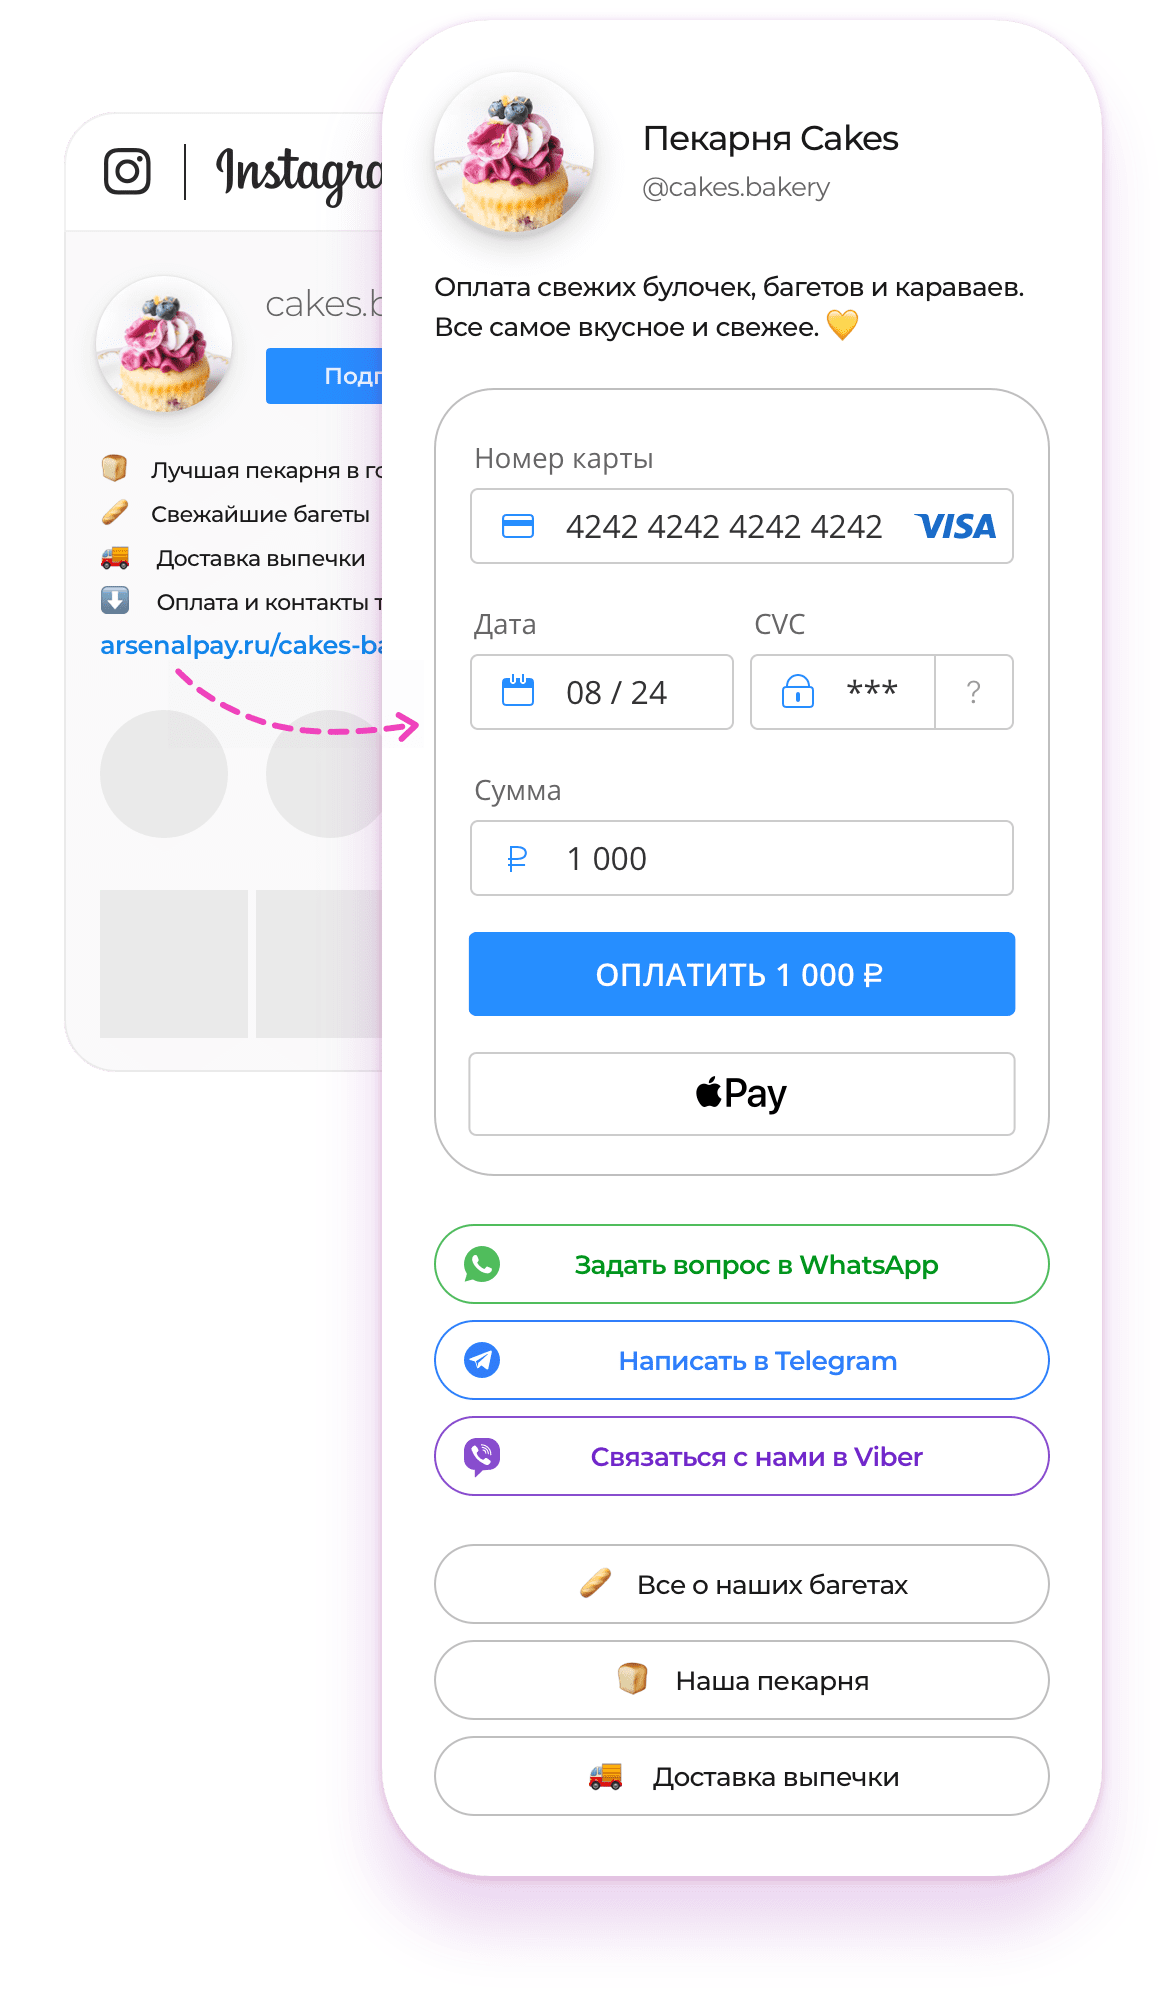
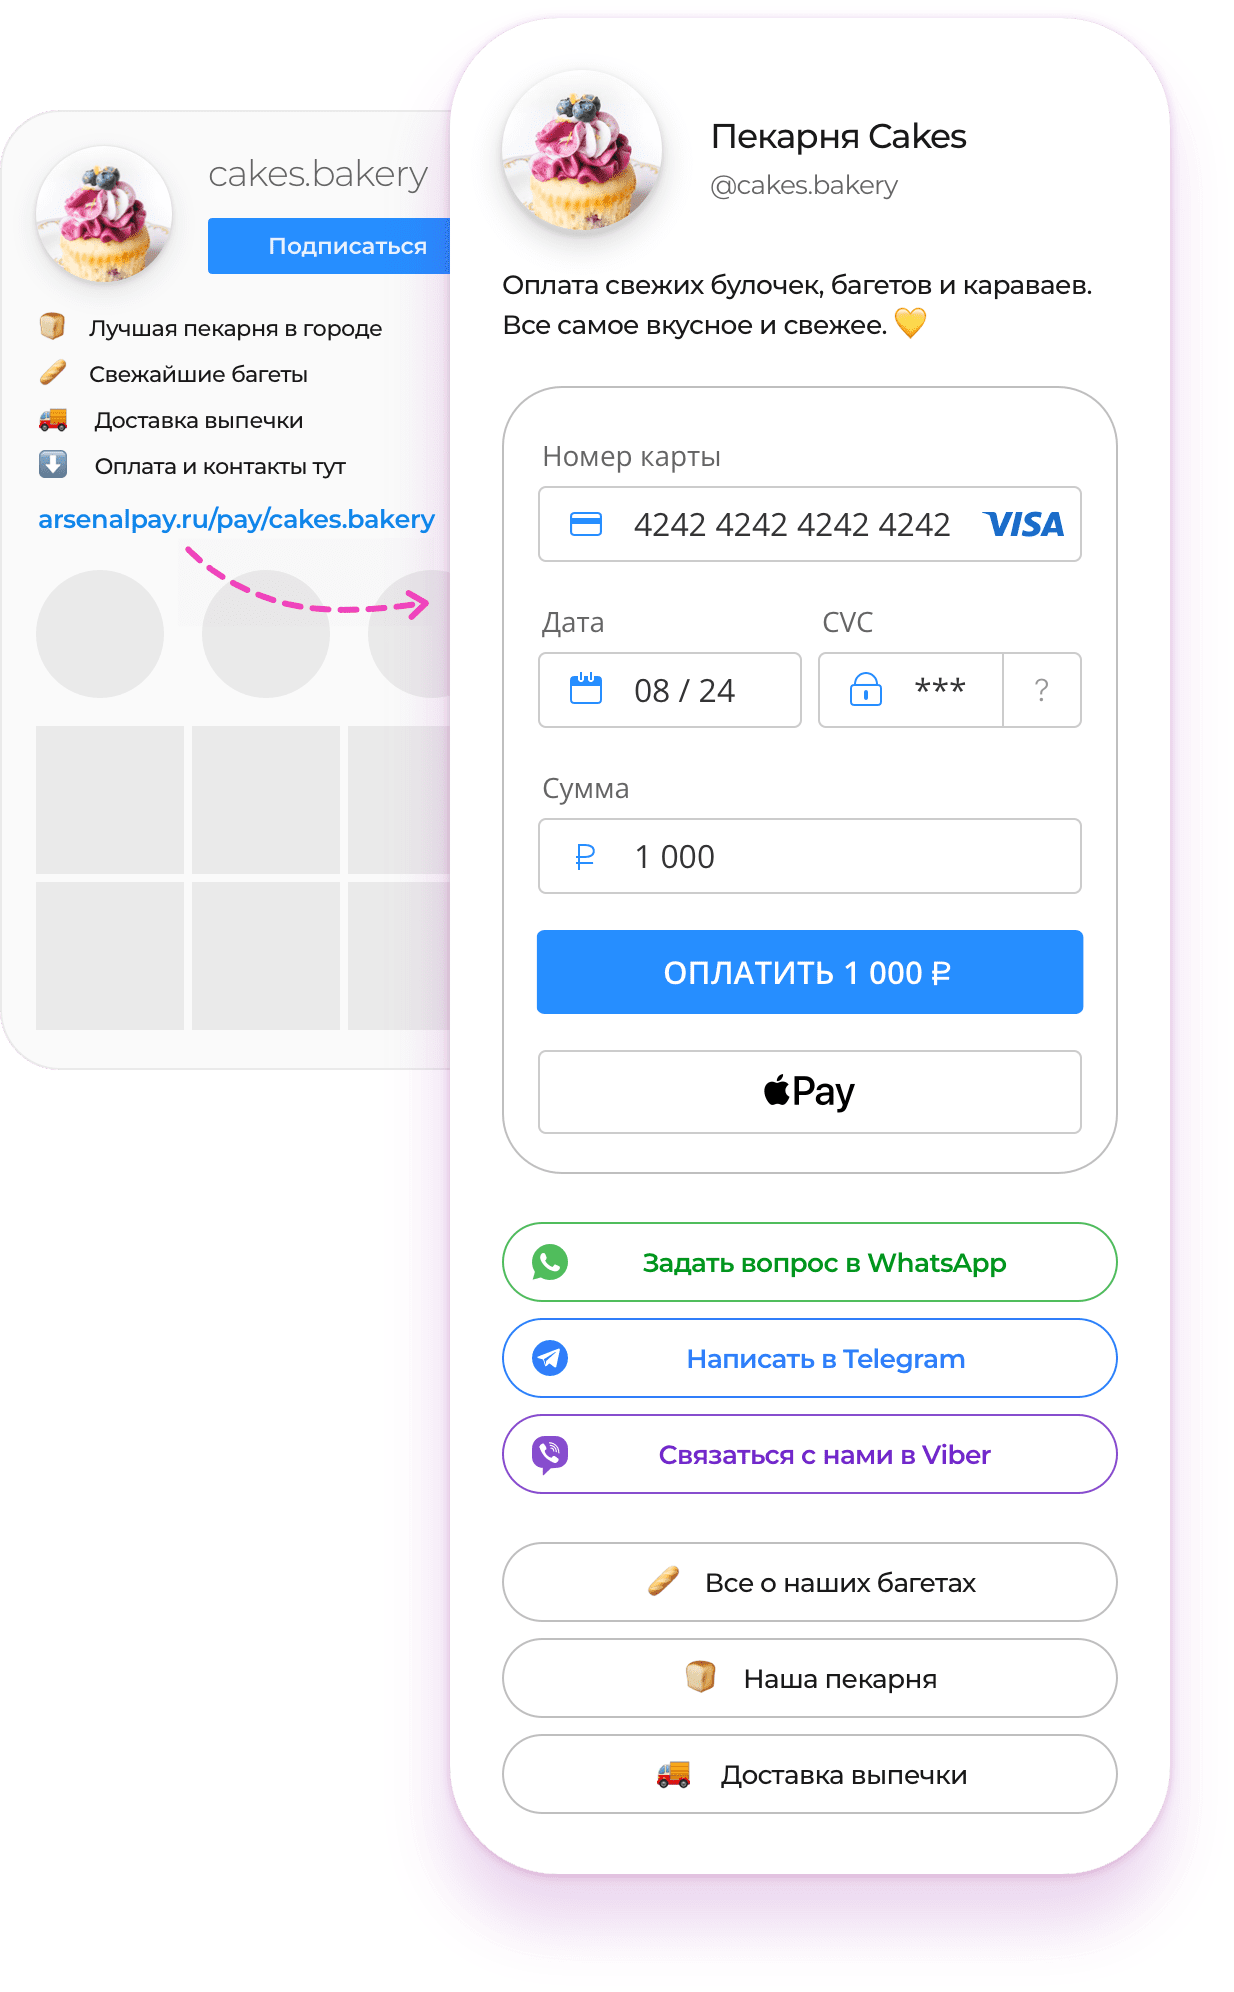
instagram img changed

diff --git a/src/assets/scss/components/_widget-box.scss b/src/assets/scss/components/_widget-box.scss
@@ -1,6 +1,6 @@
 .widget-box {
-  --widget-instagram-height--xs: 1234px;
-  --widget-instagram-height--sm: 996px;
+  --widget-instagram-height--xs: 1170px;
+  --widget-instagram-height--sm: 1216px;
   --widget-instagram-width--sm: 583px;
 
   display: flex;
@@ -125,23 +125,24 @@
   }
 
   &--instagram {
-    --shift-left: -76px;
+    --shift-left: -42px;
 
     position: relative;
-    margin-top: 2px;
+    //margin-top: 2px;
 
     @include media-breakpoint-up(sm) {
-      margin-top: -32px;
+      margin-top: -87px;
     }
 
     @include media-breakpoint-up(md) {
-      margin-top: -20px;
+      margin-top: -107px;
     }
 
     @include media-breakpoint-up(lg) {
-      left: -27px;
-      grid-template-columns: 524px minmax(340px, 400px);
-      grid-column-gap: 8px;
+      margin-top: -18px;
+      left: -7px;
+      grid-template-columns: 386px minmax(340px, 400px);
+      grid-column-gap: 28px;
       width: auto;
     }
 
@@ -150,13 +151,13 @@
       left: var(--shift-left);
       width: calc(100% - var(--shift-left));
       grid-template-columns: var(--widget-instagram-width--sm) auto;
-      grid-column-gap: 52px;
+      grid-column-gap: 105px;
     }
 
     @include media-breakpoint-up(xxl) {
-      --shift-left: -104px;
+      --shift-left: -134px;
       width: calc(100% + 60px);
-      grid-column-gap: 92px;
+      grid-column-gap: 136px;
     }
   }
 
@@ -288,7 +289,7 @@
       position: absolute;
       margin-bottom: 60px;
       //max-width: 384px;
-      width: 384px;
+      width: 360px;
       height: var(--widget-instagram-height--xs);
       align-self: center;
       background-color: transparent;
@@ -296,21 +297,19 @@
 
       @include media-breakpoint-up(sm) {
         margin-bottom: 97px;
-        width: var(--widget-instagram-width--sm);
-        height: var(--widget-instagram-height--sm);
+        width: 388px;
       }
 
       @include media-breakpoint-up(lg) {
         position: absolute;
         top: 0;
         left: 0;
-        width: 524px;
         height: 934px;
       }
 
       @include media-breakpoint-up(xl) {
-        width: var(--widget-instagram-width--sm);
-        height: var(--widget-instagram-height--sm);
+        width: 618px;
+        height: 996px;
       }
 
       picture {
@@ -460,7 +459,7 @@
       }
 
       @include media-breakpoint-up(lg) {
-        margin-top: 40px;
+        margin-top: 37px;
         grid-column: 2 / 3;
       }
 
@@ -470,10 +469,10 @@
     }
 
     .widget-box--instagram .widget-box__widget + & {
-      padding-top: var(--widget-instagram-height--xs);
+      padding-top: 1172px;
 
       @include media-breakpoint-up(sm) {
-        padding-top: var(--widget-instagram-height--sm);
+        padding-top: 1219px;
       }
 
       @include media-breakpoint-up(lg) {
@@ -625,7 +624,7 @@
 }
 
 picture.img.widget-box--instagram-img {
-  height: 1234px;
+  height: 1170px;
 
   @include media-breakpoint-up(sm) {
     height: 996px;
@@ -641,7 +640,7 @@ picture.img.widget-box--no-site-img {
 }
 
 picture.img.widget-box--instagram-img {
-  height: 1234px;
+  height: 1170px;
 
   @include media-breakpoint-up(sm) {
     height: 996px;

diff --git a/src/pages/priem-platezhej-v-instagram.html b/src/pages/priem-platezhej-v-instagram.html
@@ -42,7 +42,7 @@ footerLink: "https://arsenalpay.ru/dashboard/quickstart?step=1"
     <a href="https://arsenalpay.ru/dashboard/quickstart?step=1" class="page-section__btn">Подключить</a>
     <div class="widget-box widget-box--instagram">
       <div class="widget-box__widget">
-        {{{ img className="widget-box--instagram-img" name="widget-instagram" breakpoints='{"sm": true, "lg": true, "xl": true}'}}}
+        {{{ img className="widget-box--instagram-img" name="widget-instagram" breakpoints='{"xs": "true", "sm": true, "xl": true}'}}}
       </div>
       <div class="widget-box__content">
         {{{ info-box
@@ -78,21 +78,21 @@ footerLink: "https://arsenalpay.ru/dashboard/quickstart?step=1"
           label="Бесплатно"
           mods="align-left-lg, mgb-42"
           titleMods="lh-35-md"
-          textMods="lh-md-26, mw-520, mw-md-400" }}}
+          textMods="lh-md-26, mw-520, w-md-400" }}}
         {{{ info-box
           title="Мультиссылка"
           text='Соберите все важные ссылки вместе. <br class="br--show-sm">Решает проблему единственной ссылки в&nbsp;профиле Instagram*.'
           label="Бесплатно"
           mods="align-left-lg, mgb-42"
           titleMods="lh-35-md"
-          textMods="lh-md-26, mw-520, mw-md-400" }}}
+          textMods="lh-md-26, mw-520, w-md-400" }}}
         {{{ info-box
           title="Автоматическая email рассылка"
           text='Открывает доступ к&nbsp;контенту после оплаты. <br class="br br--show-sm br--hide-lg">Автоматизирует работу с&nbsp;клиентами.'
           label="Бесплатно"
           mods="align-left-lg, mgb-42"
           titleMods="lh-35-md"
-          textMods="lh-md-26, mw-520, mw-md-400" }}}
+          textMods="lh-md-26, mw-520, w-md-400" }}}
       </div>
     </div>
   </div>

diff --git a/src/assets/scss/components/_page-section.scss b/src/assets/scss/components/_page-section.scss
@@ -538,21 +538,21 @@
     }
 
     .page-section--instagram-mock & {
-      padding-top: 78px;
+      padding-top: 70px;
       padding-bottom: 40px;
 
       @include media-breakpoint-up(sm) {
-        padding-top: 61px;
+        padding-top: 116px;
       }
 
       @include media-breakpoint-up(md) {
-        padding-top: 75px;
+        padding-top: 162px;
         padding-bottom: 43px;
       }
 
       @include media-breakpoint-up(lg) {
-        padding-top: 43px;
-        padding-bottom: 45px;
+        padding-top: 101px;
+        padding-bottom: 88px;
       }
 
       @include media-breakpoint-up(xxl) {
